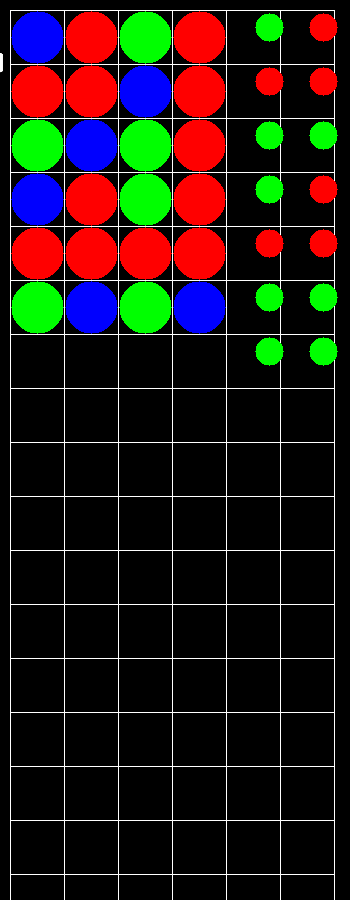
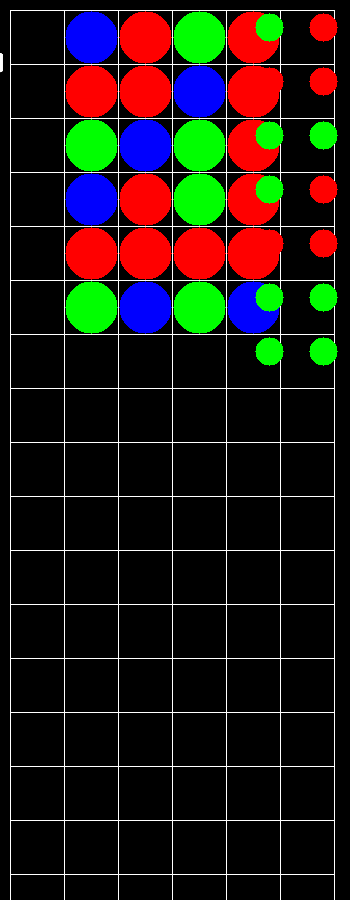
guess drawing adjusted to the right columns

Changed region(s): [[0.0286, 0.0, 0.8, 0.3733]]

diff --git a/components.py b/components.py
@@ -215,7 +215,7 @@ class GuessGrid:
                 continue # or continue? break? 
             for col in range(1, self.num_columns-1):
                 center = (
-                    round((self.padding + (self.square_size*col))-self.square_size/2),
+                    round((self.padding + (self.square_size*(col+1)))-self.square_size/2),
                     round((self.padding + (self.square_size*(row+1)))-self.square_size/2)
                           )
                 cv2.circle(img, center, round((self.square_size / 2) * 0.95),
